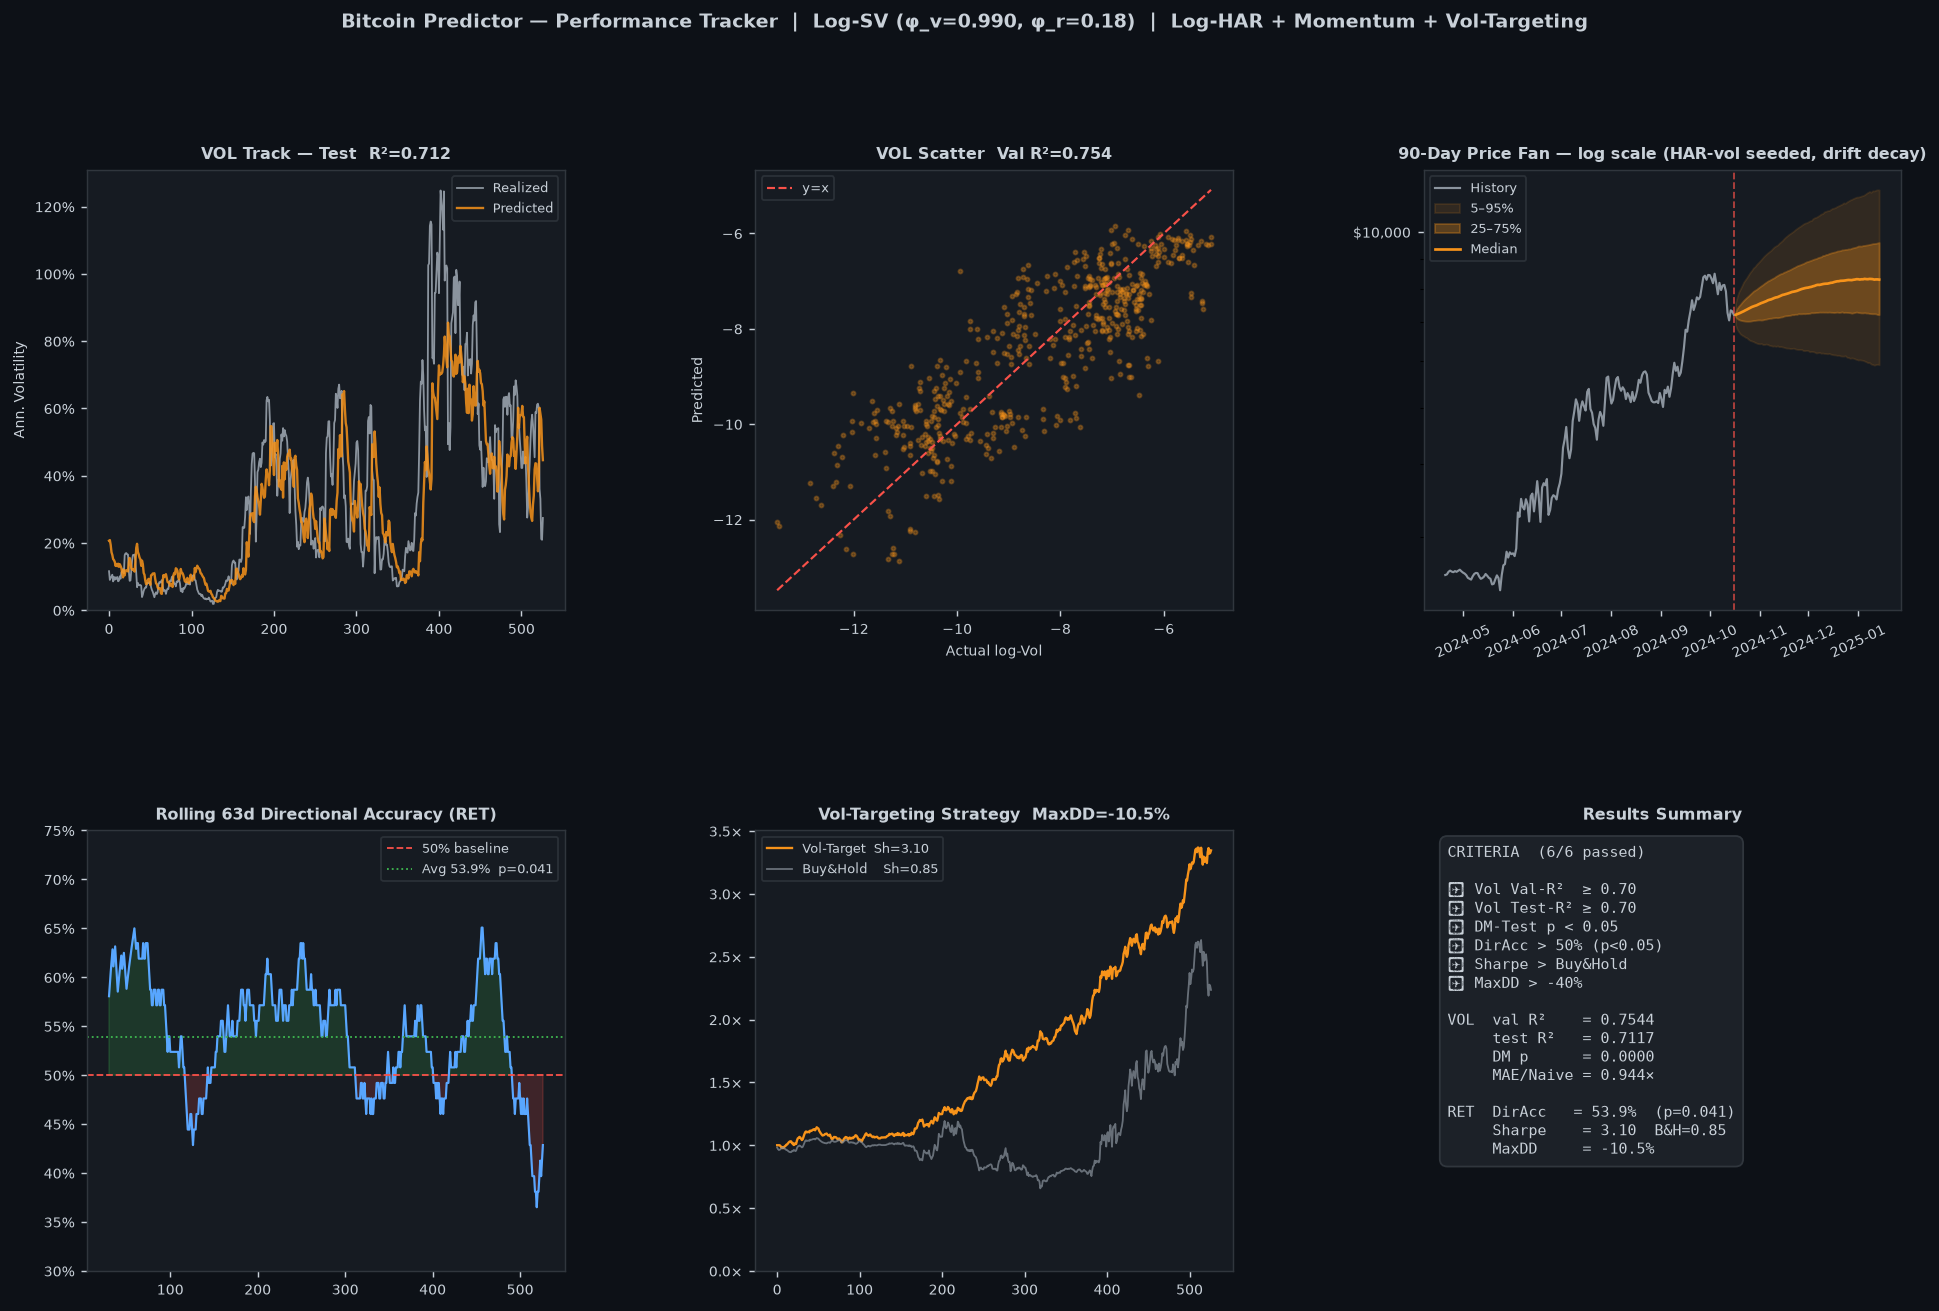
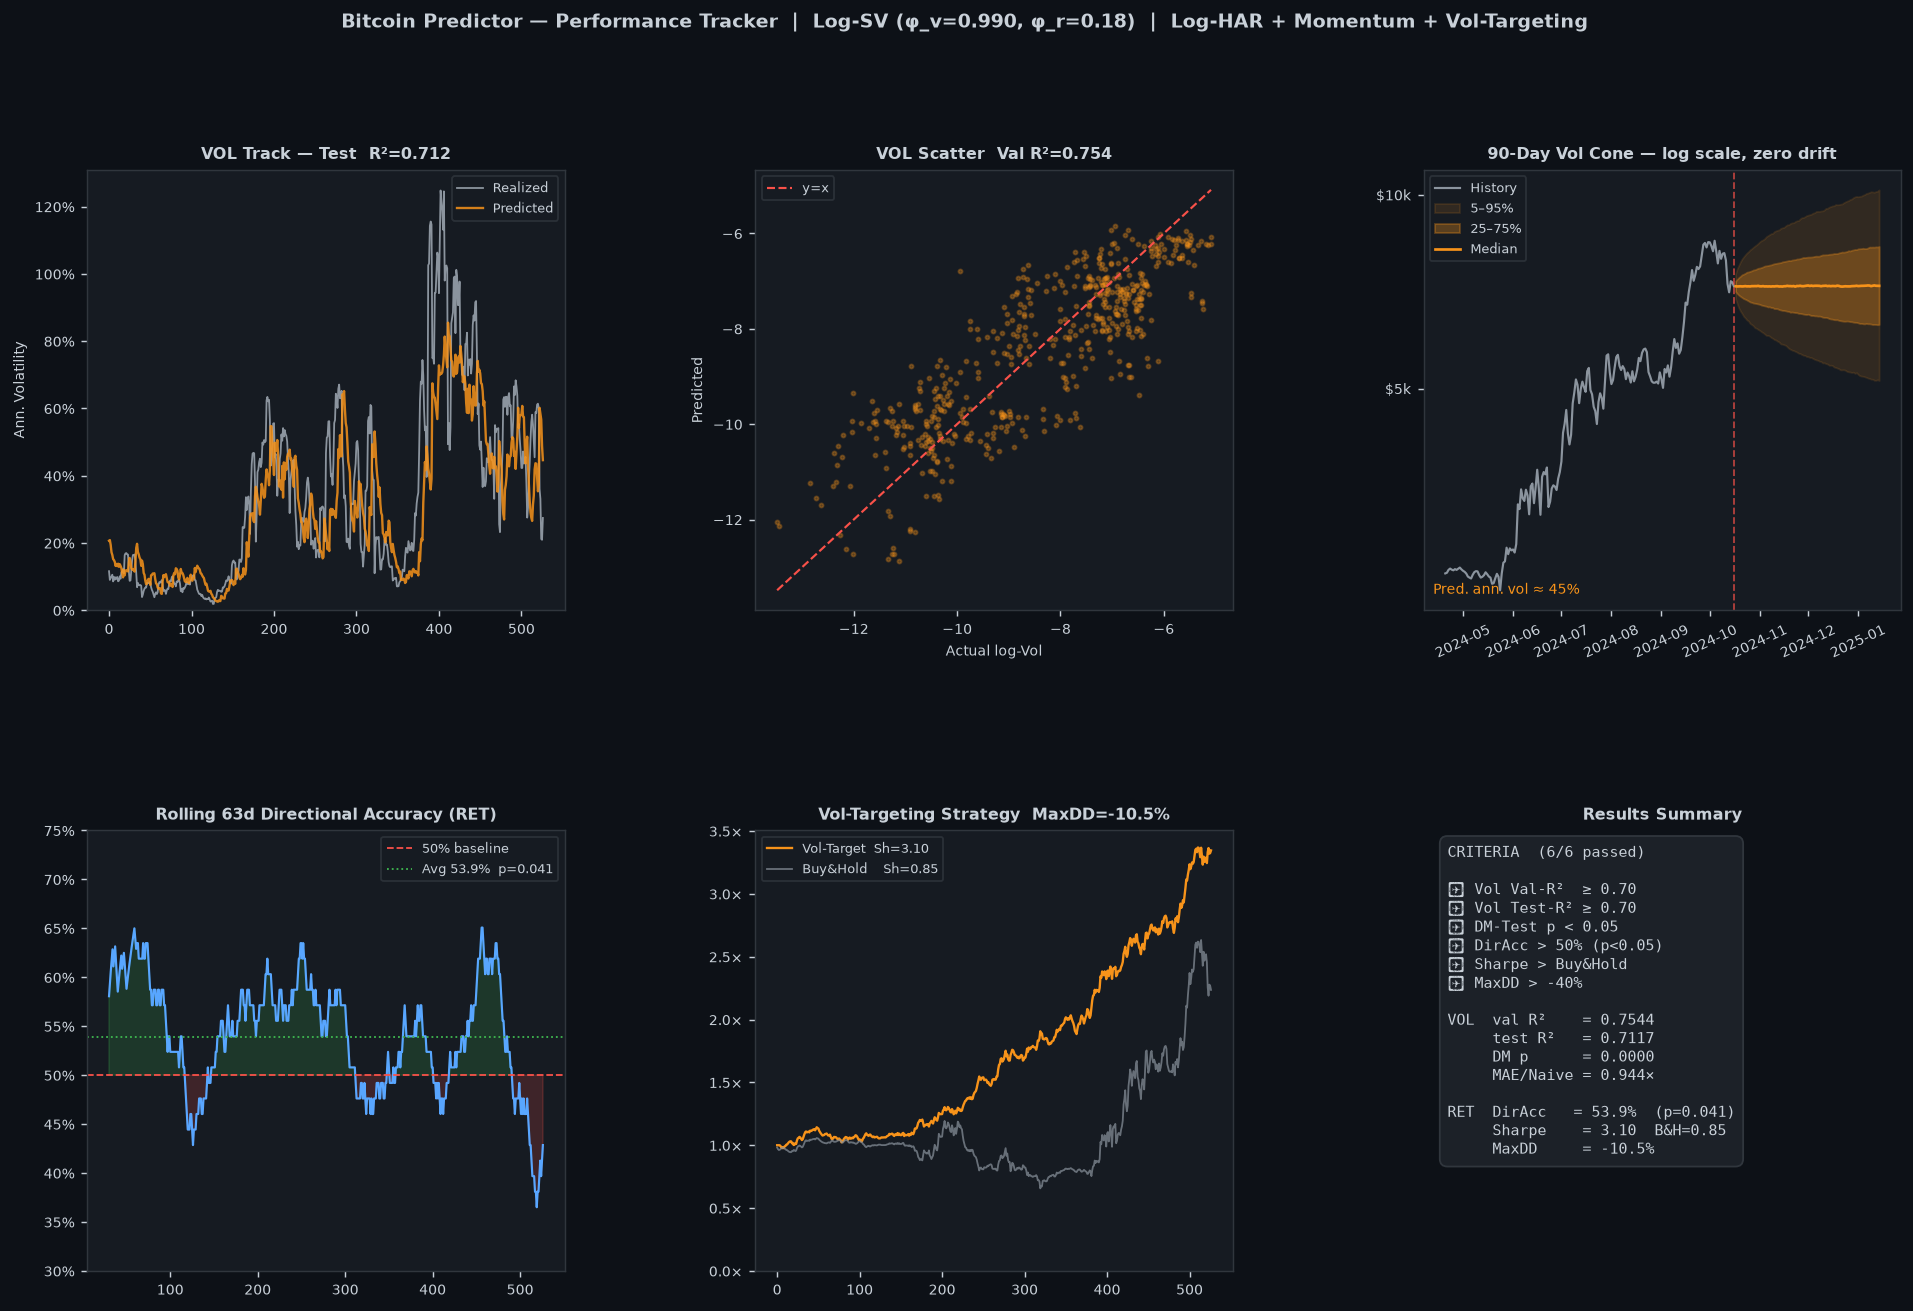
fix: Clean Y-axis labels and symmetric vol cone in price fan
- Y-axis: explicit ticks at round price levels with compact "$50k" format
  (previously "$60,000" was being cut off showing only "0,000")
- Forecast fan: removed directional drift bias → pure symmetric vol cone
  (drift from last 90 days was skewing fan upward, hiding vol structure)
- Vol mean-reversion (HAR-seeded) retained; Gaussian shocks for clean cone
- Annotate predicted annualized vol on the chart

https://claude.ai/code/session_011orHDPVBgMmeERYFJ22bUN

diff --git a/claude_workspace/performance_tracker.py b/claude_workspace/performance_tracker.py
@@ -277,17 +277,15 @@ def forecast_fan(meta_test, last_log_var_pred, horizon=90, n_paths=8000, seed=SE
     sig_now  = float(np.sqrt(np.exp(last_log_var_pred)))
     sig_long = float(np.sqrt(np.median(
                    pd.Series(rets**2).rolling(22).mean().dropna())))
-    drift_d  = float(np.mean(rets[-90:])) if len(rets)>=90 else float(np.mean(rets))
-    std_r    = (rets - rets.mean()) / (rets.std() + 1e-10)
-    spot     = float(closes[-1])
+    # Zero drift → pure symmetric vol cone; drift biases the fan and hides vol structure
+    spot = float(closes[-1])
 
     paths = np.empty((n_paths, horizon))
     for i in range(n_paths):
         lp, v = np.log(spot), sig_now
         for t in range(horizon):
-            drift_t = drift_d * max(0.0, 1.0 - t/horizon)
-            v       = 0.90 * v + 0.10 * sig_long
-            lp     += drift_t + v * rng.choice(std_r)
+            v   = 0.90 * v + 0.10 * sig_long   # vol mean-reversion
+            lp += v * rng.standard_normal()      # symmetric Gaussian shock
             paths[i, t] = np.exp(lp)
 
     pct   = lambda q: np.percentile(paths, q, axis=0)
@@ -445,11 +443,23 @@ def main():
     ax3.axvline(vr["meta_test"]["date"].iloc[-1],
                 color=C_RED, lw=1.0, ls="--", alpha=0.7)
     ax3.set_yscale("log")
-    ax3.yaxis.set_major_formatter(plt.FuncFormatter(lambda x, _: f"${x:,.0f}"))
-    ax3.yaxis.set_minor_formatter(plt.NullFormatter())
+    # Explicit ticks at round price levels — avoids label cutoff
+    all_p  = np.concatenate([tail["close"].values,
+                              fan["p05"].values, fan["p95"].values])
+    plo, phi_p = all_p.min() * 0.88, all_p.max() * 1.12
+    nice_k = [5,10,15,20,25,30,35,40,45,50,55,60,65,70,75,80,90,100,110,120,150]
+    ticks  = [t * 1000 for t in nice_k if plo <= t * 1000 <= phi_p]
+    if len(ticks) >= 2:
+        ax3.set_yticks(ticks)
+    ax3.yaxis.set_major_formatter(plt.FuncFormatter(lambda x, _: f"${x/1000:.0f}k"))
+    ax3.yaxis.set_minor_locator(plt.NullLocator())
+    # Annotate current predicted vol
+    sig_ann = float(np.sqrt(np.exp(float(vr["yte_pred"][-1])) * 252))
+    ax3.text(0.02, 0.03, f"Pred. ann. vol ≈ {sig_ann:.0%}",
+             transform=ax3.transAxes, color=C_ORG, fontsize=7.5, va="bottom")
     ax3.legend(fontsize=7, facecolor=BG, edgecolor="#30363d", labelcolor=TXT)
     ax3.tick_params(axis="x", rotation=25)
-    sax(ax3, "90-Day Price Fan — log scale (HAR-vol seeded, drift decay)")
+    sax(ax3, "90-Day Vol Cone — log scale, zero drift")
 
     # P4 — Rolling DirAcc ─────────────────────────────────────
     ax4 = fig.add_subplot(gs[1, 0])
